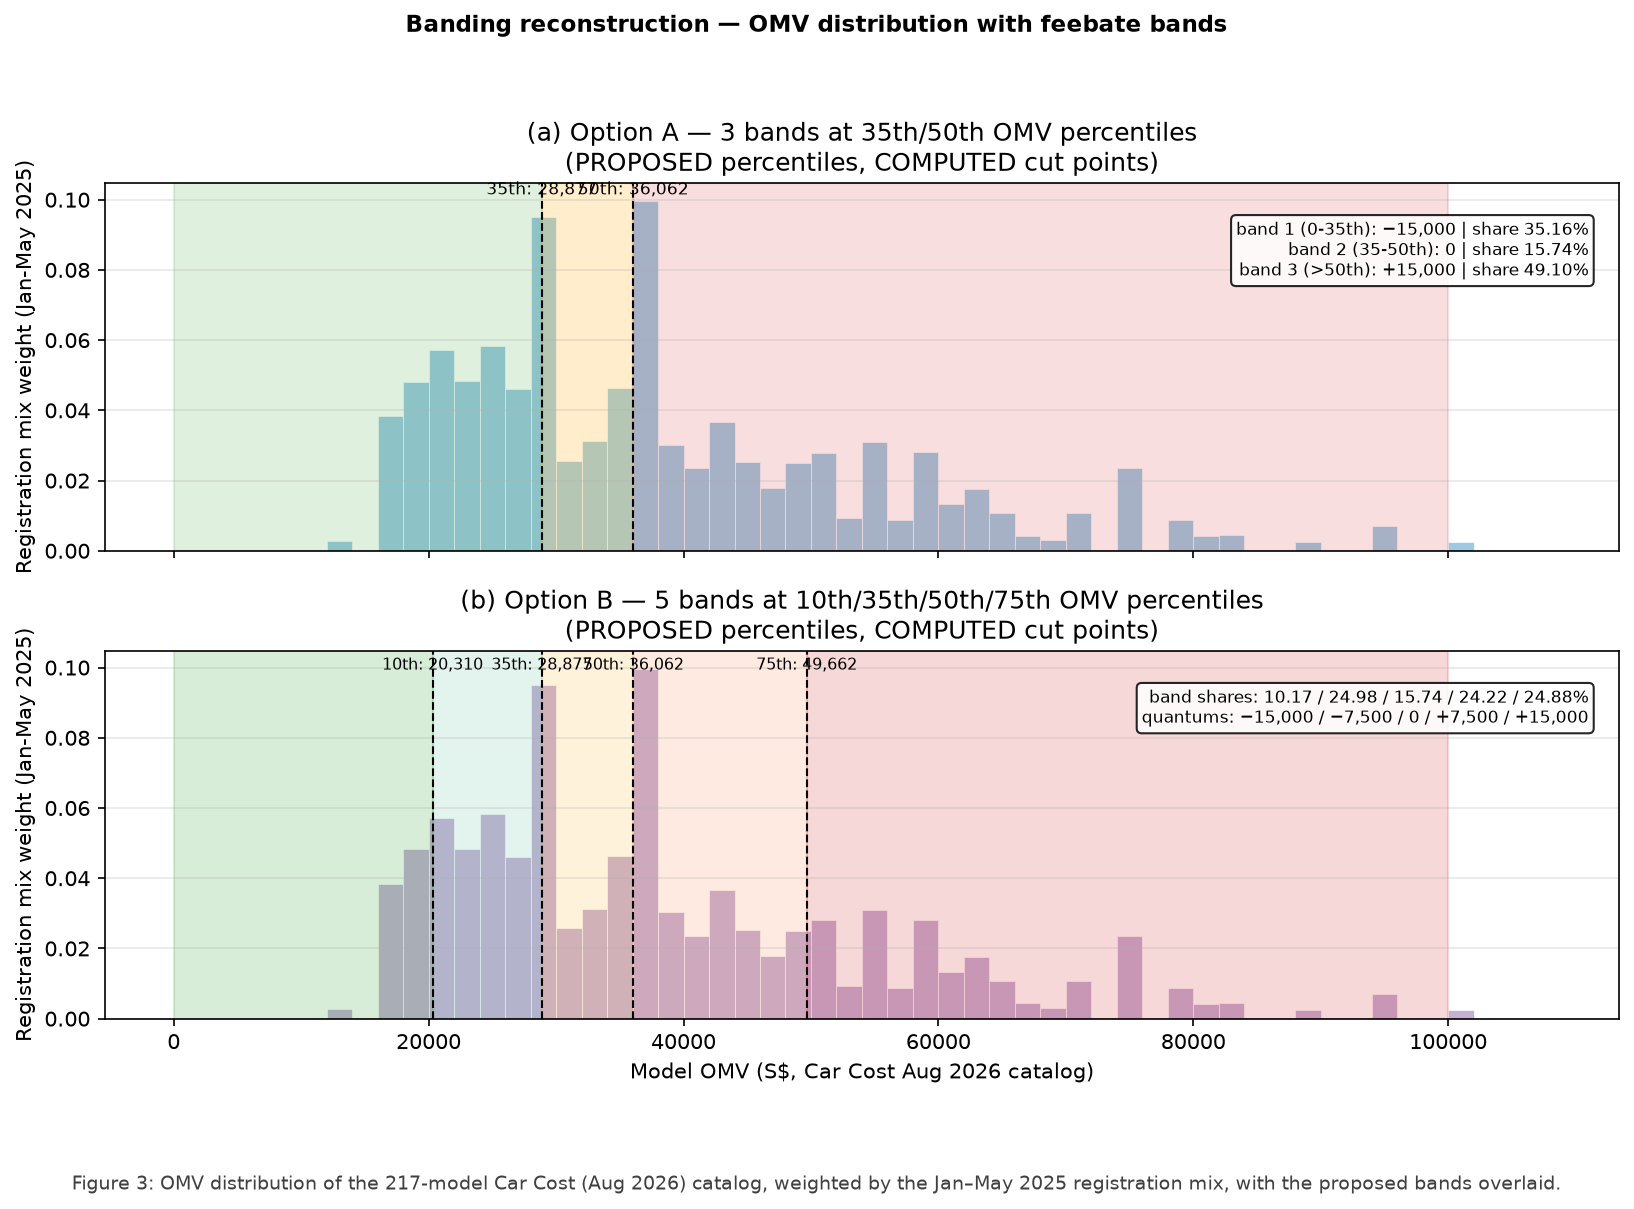
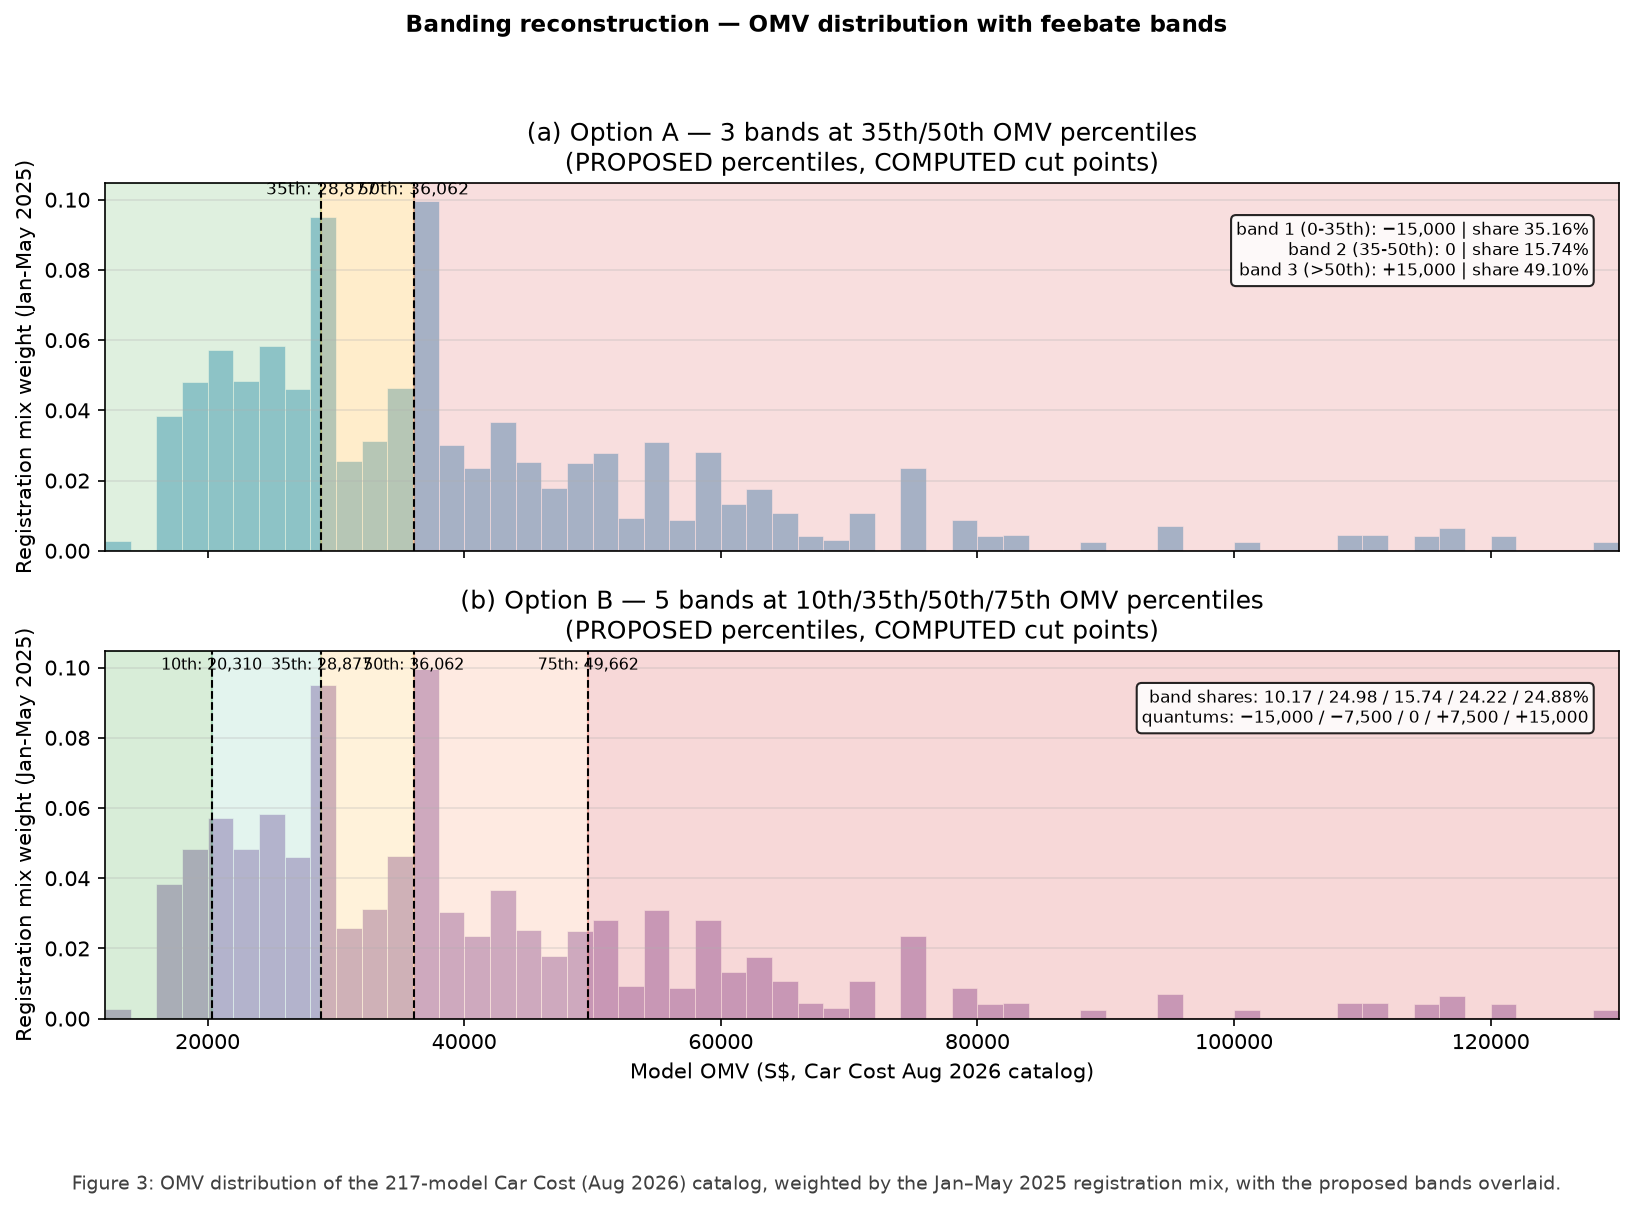
Figure 3: extend bins/shading to the full catalog OMV range (12,856..128,696) — the >100k models are now inside the top band, and the 5 models above the old 110k bin edge (110,473..128,696) that matplotlib silently dropped are now plotted, so all 217 models appear; xlim trimmed to 12,000..130,000 to

diff --git a/src/make_charts.py b/src/make_charts.py
@@ -275,11 +275,15 @@ def fig3():
     omvB = [f(r[ixB["omv_catalog_aug2026"]]) for r in rowsB if f(r[ixB["omv_catalog_aug2026"]])]
     wB = [f(r[ixB["weight"]]) for r in rowsB if f(r[ixB["omv_catalog_aug2026"]])]
     fig, (ax1, ax2) = plt.subplots(2, 1, figsize=(11, 8), sharex=True)
-    edges = list(range(10000, 110000, 2000))
+    # bins cover the full catalog OMV range (12,856..128,696) so every one
+    # of the 217 models is plotted; xlim trimmed to the same range to
+    # minimise the empty margins
+    edges = list(range(12000, 132000, 2000))
     ax1.hist(omvA, bins=edges, weights=wA, color="#9ecae1", edgecolor="white", lw=0.3)
+    ax1.set_xlim(12000, 130000)
     ax1.axvspan(0, 28877, color="#2ca02c", alpha=0.15)
     ax1.axvspan(28877, 36062, color="#ffbb33", alpha=0.25)
-    ax1.axvspan(36062, 100000, color="#d62728", alpha=0.15)
+    ax1.axvspan(36062, 130000, color="#d62728", alpha=0.15)
     for x, lab in ((28877, "35th: 28,877"), (36062, "50th: 36,062")):
         ax1.axvline(x, color="k", lw=1.0, ls="--")
         ax1.annotate(lab, xy=(x, ax1.get_ylim()[1] * 0.97), fontsize=8, ha="center")
@@ -291,7 +295,7 @@ def fig3():
     ax1.grid(alpha=0.3, axis="y")
     ax2.hist(omvB, bins=edges, weights=wB, color="#c5b0d5", edgecolor="white", lw=0.3)
     for (lo, hi, col) in ((0, 20310, "#2ca02c"), (20310, 28877, "#66c2a5"), (28877, 36062, "#ffbb33"),
-                          (36062, 49662, "#fc8d59"), (49662, 100000, "#d62728")):
+                          (36062, 49662, "#fc8d59"), (49662, 130000, "#d62728")):
         ax2.axvspan(lo, hi, color=col, alpha=0.18)
     for x, lab in ((20310, "10th: 20,310"), (28877, "35th: 28,877"), (36062, "50th: 36,062"), (49662, "75th: 49,662")):
         ax2.axvline(x, color="k", lw=1.0, ls="--")
